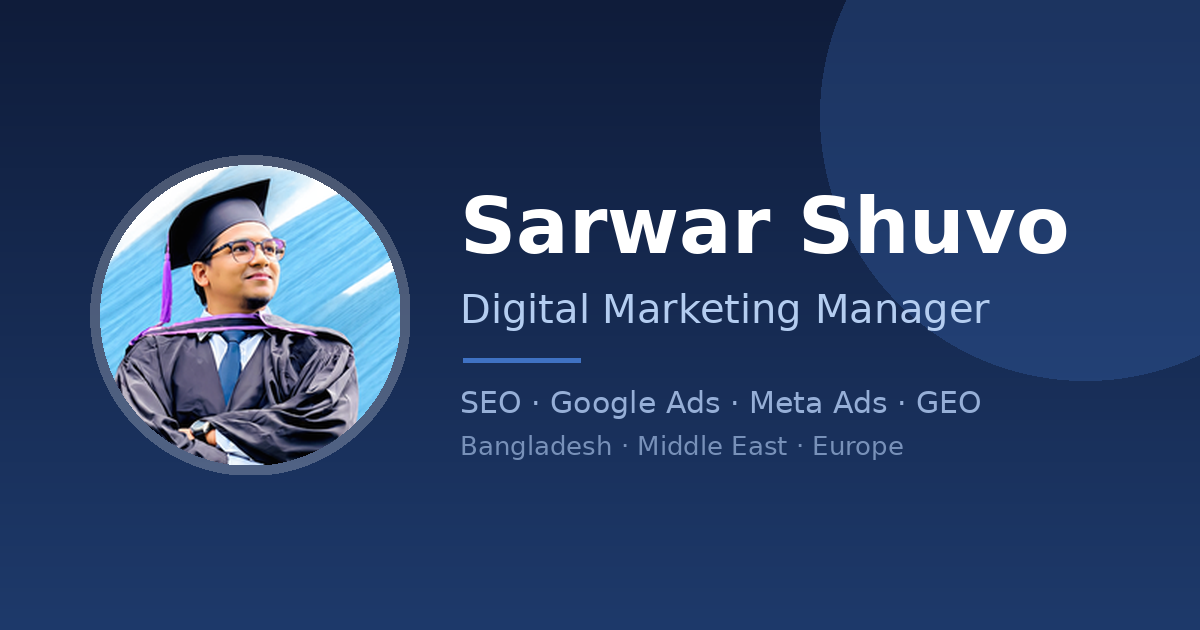
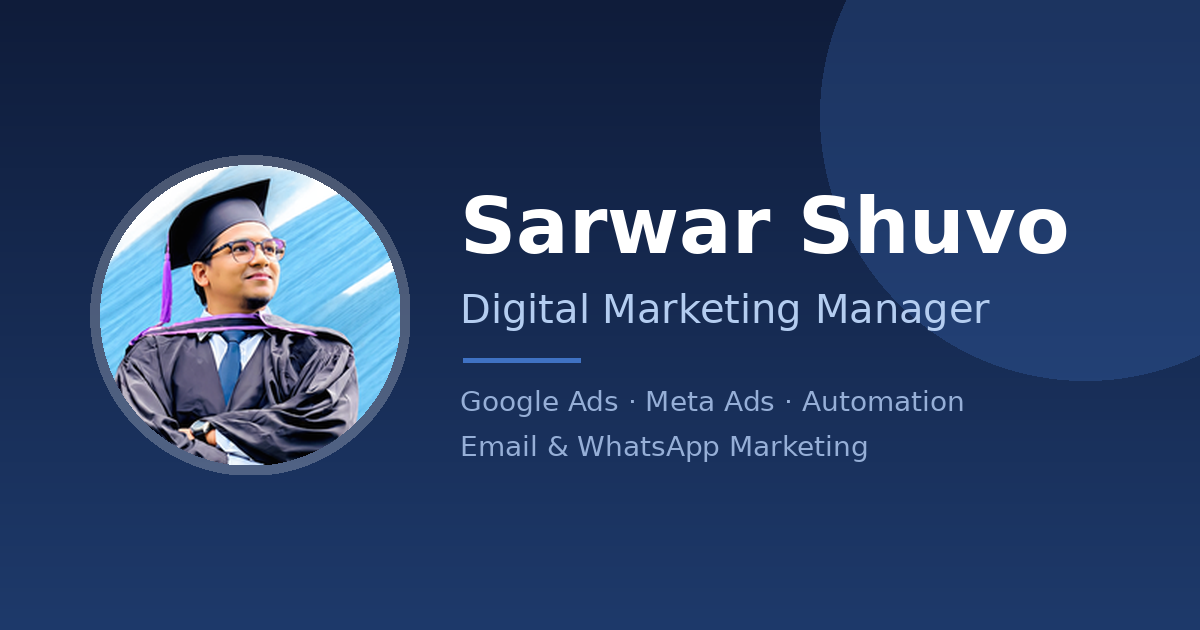
Reorder services (Ads-first), fix share preview

Changed region(s): [[0.37, 0.6032, 0.8325, 0.6635], [0.37, 0.6937, 0.7708, 0.7238]]

diff --git a/index.html b/index.html
@@ -10,17 +10,17 @@
   <meta property="og:site_name" content="Sarwar Shuvo" />
   <meta property="og:url" content="https://sjshuvo00.github.io/" />
   <meta property="og:title" content="Sarwar Shuvo | Digital Marketing Manager" />
-  <meta property="og:description" content="Outcome-driven digital marketing: SEO, Google Ads, Meta Ads, GEO and automation for businesses across Bangladesh, the Middle East and Europe." />
+  <meta property="og:description" content="Outcome-driven digital marketing: Google Ads, Meta Ads, automation, email and WhatsApp marketing for businesses across Bangladesh, the Middle East and Europe." />
   <meta property="og:image" content="https://sjshuvo00.github.io/assets/og-image.png" />
   <meta property="og:image:width" content="1200" />
   <meta property="og:image:height" content="630" />
   <meta name="twitter:card" content="summary_large_image" />
   <meta name="twitter:title" content="Sarwar Shuvo | Digital Marketing Manager" />
-  <meta name="twitter:description" content="Outcome-driven digital marketing: SEO, Google Ads, Meta Ads, GEO and automation for businesses across Bangladesh, the Middle East and Europe." />
+  <meta name="twitter:description" content="Outcome-driven digital marketing: Google Ads, Meta Ads, automation, email and WhatsApp marketing for businesses across Bangladesh, the Middle East and Europe." />
   <meta name="twitter:image" content="https://sjshuvo00.github.io/assets/og-image.png" />
   <link rel="icon" type="image/png" href="assets/favicon.png" />
   <link rel="apple-touch-icon" href="assets/apple-touch-icon.png" />
-  <meta name="description" content="Digital marketing specialist helping brands grow through SEO, paid media, and performance marketing." />
+  <meta name="description" content="Google Ads, Meta Ads, automation, email and WhatsApp marketing that turn spend into leads, customers, and revenue." />
   <link rel="preconnect" href="https://fonts.googleapis.com" />
   <link rel="preconnect" href="https://fonts.gstatic.com" crossorigin />
   <link href="https://fonts.googleapis.com/css2?family=Plus+Jakarta+Sans:wght@400;500;600;700;800&family=Inter:wght@400;500;600&family=Bebas+Neue&family=Playfair+Display:wght@600;700&display=swap" rel="stylesheet" />
@@ -500,7 +500,7 @@
         "name": "What digital marketing services do you offer?",
         "acceptedAnswer": {
           "@type": "Answer",
-          "text": "I offer Google Ads, Meta Ads, SEO, Generative Engine Optimisation, marketing automation, WhatsApp marketing, email marketing, CRO, analytics, and content marketing, all tied to measurable business outcomes."
+          "text": "Services include Google Ads, Meta Ads, SEO, Generative Engine Optimisation, marketing automation, WhatsApp marketing, email marketing, CRO, analytics, and content marketing, all tied to measurable business outcomes."
         }
       },
       {
@@ -508,7 +508,7 @@
         "name": "Do you work with international and remote clients?",
         "acceptedAnswer": {
           "@type": "Answer",
-          "text": "Yes. I work remotely with businesses across Bangladesh, the Middle East, Europe, and beyond."
+          "text": "Yes. Work is fully remote, with clients across Bangladesh, the Middle East, Europe, and beyond."
         }
       },
       {
@@ -532,7 +532,7 @@
         "name": "How can I get started?",
         "acceptedAnswer": {
           "@type": "Answer",
-          "text": "Book a free marketing audit through the contact page and I'll tell you honestly what's achievable and in what timeframe."
+          "text": "Book a free marketing audit through the contact page, and you'll get an honest assessment of what's achievable and in what timeframe."
         }
       }
     ]
@@ -596,7 +596,7 @@
           </div>
           <p>Most marketing talks about traffic, reach, and impressions. I care more about what happens after the click: qualified leads, customers, and real business results. Every piece of work I do is tied to a clear business outcome. Traffic is not a result. Revenue is a result.</p>
           <p>I'm <strong>Sarwar Shuvo</strong>, a Digital Marketing Manager working across Bangladesh, the Middle East, and Europe. I work with businesses across different industries, using Meta Ads, Google Ads, AI automation, SEO, and performance marketing to identify where growth is being lost and turn marketing into something that actually works. We don't promise results we can't deliver. Before every engagement, we tell you honestly what's achievable and in what timeframe.</p>
-          <p>My approach is straightforward: understand the business, follow the data, cut what is not working, and scale what is. I don't believe in set and forget campaigns. Marketing changes faster than almost any other industry, so I invest heavily in staying ahead and continuously learning what works. And I believe the best insights should be shared. Every campaign is an opportunity to learn, improve, and build a smarter marketing system.</p>
+          <p>My approach is straightforward. Understand the business, follow the data, cut what is not working, and scale what is working. I don't believe in set and forget campaigns. Marketing changes faster than almost any other industry, so I invest heavily in staying ahead and continuously learning what works. And I believe the best insights should be shared. Every campaign is an opportunity to learn, improve, and build a smarter marketing system.</p>
         </div>
       </div>
             <a href="contact.html" class="audit-btn"><img src="assets/avatar.png?v=2" alt="Sarwar Shuvo"><span>Get a Free Marketing Audit</span></a>
@@ -612,18 +612,18 @@
         <p>Flexible engagements: one-off projects, monthly retainers, or consulting.</p>
       </div>
       <div class="services-grid">
-        <div class="service"><div class="num">01</div><h3>Google Ads</h3><p>Search, Shopping, and Performance Max campaigns built for measurable ROI.</p><span class="arrow">↗</span></div>
-        <div class="service"><div class="num">02</div><h3>Meta Ads</h3><p>Full-funnel Facebook and Instagram advertising from cold audiences to loyal customers.</p><span class="arrow">↗</span></div>
-        <div class="service"><div class="num">03</div><h3>Automation</h3><p>Marketing automation and workflows that nurture leads and save hours on repetitive work.</p><span class="arrow">↗</span></div>
-        <div class="service"><div class="num">04</div><h3>WhatsApp Marketing</h3><p>Broadcasts, chatbots, and automated flows on WhatsApp that drive fast replies and sales.</p><span class="arrow">↗</span></div>
-        <div class="service"><div class="num">05</div><h3>SEO</h3><p>Build the organic search presence that drives qualified traffic and compounds over time.</p><span class="arrow">↗</span></div>
-        <div class="service"><div class="num">06</div><h3>Generative Engine Optimisation</h3><p>Appear in ChatGPT, Perplexity, and Google AI Overviews, not just traditional search.</p><span class="arrow">↗</span></div>
-        <div class="service"><div class="num">07</div><h3>AI Search Optimisation</h3><p>Get cited by AI answer engines as the authority in your space.</p><span class="arrow">↗</span></div>
-        <div class="service"><div class="num">08</div><h3>Email Marketing</h3><p>Automated sequences and broadcast campaigns that turn subscribers into revenue.</p><span class="arrow">↗</span></div>
-        <div class="service"><div class="num">09</div><h3>Web Development</h3><p>Performance-first, SEO-ready websites built to rank and convert.</p><span class="arrow">↗</span></div>
-        <div class="service"><div class="num">10</div><h3>CRO</h3><p>Convert more of the traffic you already have. The highest-ROI investment you can make.</p><span class="arrow">↗</span></div>
-        <div class="service"><div class="num">11</div><h3>Analytics & Tracking</h3><p>Know exactly what's driving your growth with accurate attribution across all channels.</p><span class="arrow">↗</span></div>
-        <div class="service"><div class="num">12</div><h3>Content Marketing</h3><p>Strategic content that builds authority, earns backlinks, and fuels both SEO and GEO growth.</p><span class="arrow">↗</span></div>
+        <div class="service"><div class="num">01</div><h3>Google Ads</h3><p>Search, Shopping, and Performance Max campaigns built for measurable ROI.</p></div>
+        <div class="service"><div class="num">02</div><h3>Meta Ads</h3><p>Full-funnel Facebook and Instagram advertising from cold audiences to loyal customers.</p></div>
+        <div class="service"><div class="num">03</div><h3>Automation</h3><p>Marketing automation and workflows that nurture leads and save hours on repetitive work.</p></div>
+        <div class="service"><div class="num">04</div><h3>Email Marketing</h3><p>Automated sequences and broadcast campaigns that turn subscribers into revenue.</p></div>
+        <div class="service"><div class="num">05</div><h3>WhatsApp Marketing</h3><p>Broadcasts, chatbots, and automated flows on WhatsApp that drive fast replies and sales.</p></div>
+        <div class="service"><div class="num">06</div><h3>SEO</h3><p>Build the organic search presence that drives qualified traffic and compounds over time.</p></div>
+        <div class="service"><div class="num">07</div><h3>Generative Engine Optimisation</h3><p>Appear in ChatGPT, Perplexity, and Google AI Overviews, not just traditional search.</p></div>
+        <div class="service"><div class="num">08</div><h3>AI Search Optimisation</h3><p>Get cited by AI answer engines as the authority in your space.</p></div>
+        <div class="service"><div class="num">09</div><h3>Web Development</h3><p>Performance-first, SEO-ready websites built to rank and convert.</p></div>
+        <div class="service"><div class="num">10</div><h3>CRO</h3><p>Convert more of the traffic you already have. The highest-ROI investment you can make.</p></div>
+        <div class="service"><div class="num">11</div><h3>Analytics & Tracking</h3><p>Know exactly what's driving your growth with accurate attribution across all channels.</p></div>
+        <div class="service"><div class="num">12</div><h3>Content Marketing</h3><p>Strategic content that builds authority, earns backlinks, and fuels both SEO and GEO growth.</p></div>
       </div>
     </div>
   </section>
@@ -736,7 +736,7 @@
           <div class="step-icon">🔍</div>
           <div class="step-num">01</div>
           <h3>Discovery</h3>
-          <p>I dig into your business, goals, audience, and competitors to understand where the real opportunities are.</p>
+          <p>A deep dive into your business, goals, audience, and competitors to find where the real opportunities are.</p>
         </div>
         <div class="process-step">
           <div class="step-icon">🧭</div>
@@ -748,7 +748,7 @@
           <div class="step-icon">🚀</div>
           <div class="step-num">03</div>
           <h3>Execution</h3>
-          <p>I build and launch campaigns, content, and tracking, then optimise continuously based on real data.</p>
+          <p>Campaigns, content, and tracking are launched, then optimised continuously based on real data.</p>
         </div>
         <div class="process-step">
           <div class="step-icon">📈</div>
@@ -935,11 +935,11 @@
       <div class="faq-list">
         <details class="faq-item">
           <summary>What digital marketing services do you offer?</summary>
-          <div class="faq-a">I offer Google Ads, Meta Ads, SEO, Generative Engine Optimisation, marketing automation, WhatsApp marketing, email marketing, CRO, analytics, and content marketing, all tied to measurable business outcomes.</div>
+          <div class="faq-a">Services include Google Ads, Meta Ads, SEO, Generative Engine Optimisation, marketing automation, WhatsApp marketing, email marketing, CRO, analytics, and content marketing, all tied to measurable business outcomes.</div>
         </details>
         <details class="faq-item">
           <summary>Do you work with international and remote clients?</summary>
-          <div class="faq-a">Yes. I work remotely with businesses across Bangladesh, the Middle East, Europe, and beyond.</div>
+          <div class="faq-a">Yes. Work is fully remote, with clients across Bangladesh, the Middle East, Europe, and beyond.</div>
         </details>
         <details class="faq-item">
           <summary>What kind of businesses do you work with?</summary>
@@ -951,7 +951,7 @@
         </details>
         <details class="faq-item">
           <summary>How can I get started?</summary>
-          <div class="faq-a">Book a free marketing audit through the contact page and I'll tell you honestly what's achievable and in what timeframe.</div>
+          <div class="faq-a">Book a free marketing audit through the contact page, and you'll get an honest assessment of what's achievable and in what timeframe.</div>
         </details>
       </div>
     </div>

diff --git a/contact.html b/contact.html
@@ -9,13 +9,13 @@
   <meta property="og:site_name" content="Sarwar Shuvo" />
   <meta property="og:url" content="https://sjshuvo00.github.io/contact.html" />
   <meta property="og:title" content="Contact | Sarwar Shuvo" />
-  <meta property="og:description" content="Outcome-driven digital marketing: SEO, Google Ads, Meta Ads, GEO and automation for businesses across Bangladesh, the Middle East and Europe." />
+  <meta property="og:description" content="Outcome-driven digital marketing: Google Ads, Meta Ads, automation, email and WhatsApp marketing for businesses across Bangladesh, the Middle East and Europe." />
   <meta property="og:image" content="https://sjshuvo00.github.io/assets/og-image.png" />
   <meta property="og:image:width" content="1200" />
   <meta property="og:image:height" content="630" />
   <meta name="twitter:card" content="summary_large_image" />
   <meta name="twitter:title" content="Contact | Sarwar Shuvo" />
-  <meta name="twitter:description" content="Outcome-driven digital marketing: SEO, Google Ads, Meta Ads, GEO and automation for businesses across Bangladesh, the Middle East and Europe." />
+  <meta name="twitter:description" content="Outcome-driven digital marketing: Google Ads, Meta Ads, automation, email and WhatsApp marketing for businesses across Bangladesh, the Middle East and Europe." />
   <meta name="twitter:image" content="https://sjshuvo00.github.io/assets/og-image.png" />
   <link rel="icon" type="image/png" href="assets/favicon.png" />
   <link rel="apple-touch-icon" href="assets/apple-touch-icon.png" />
